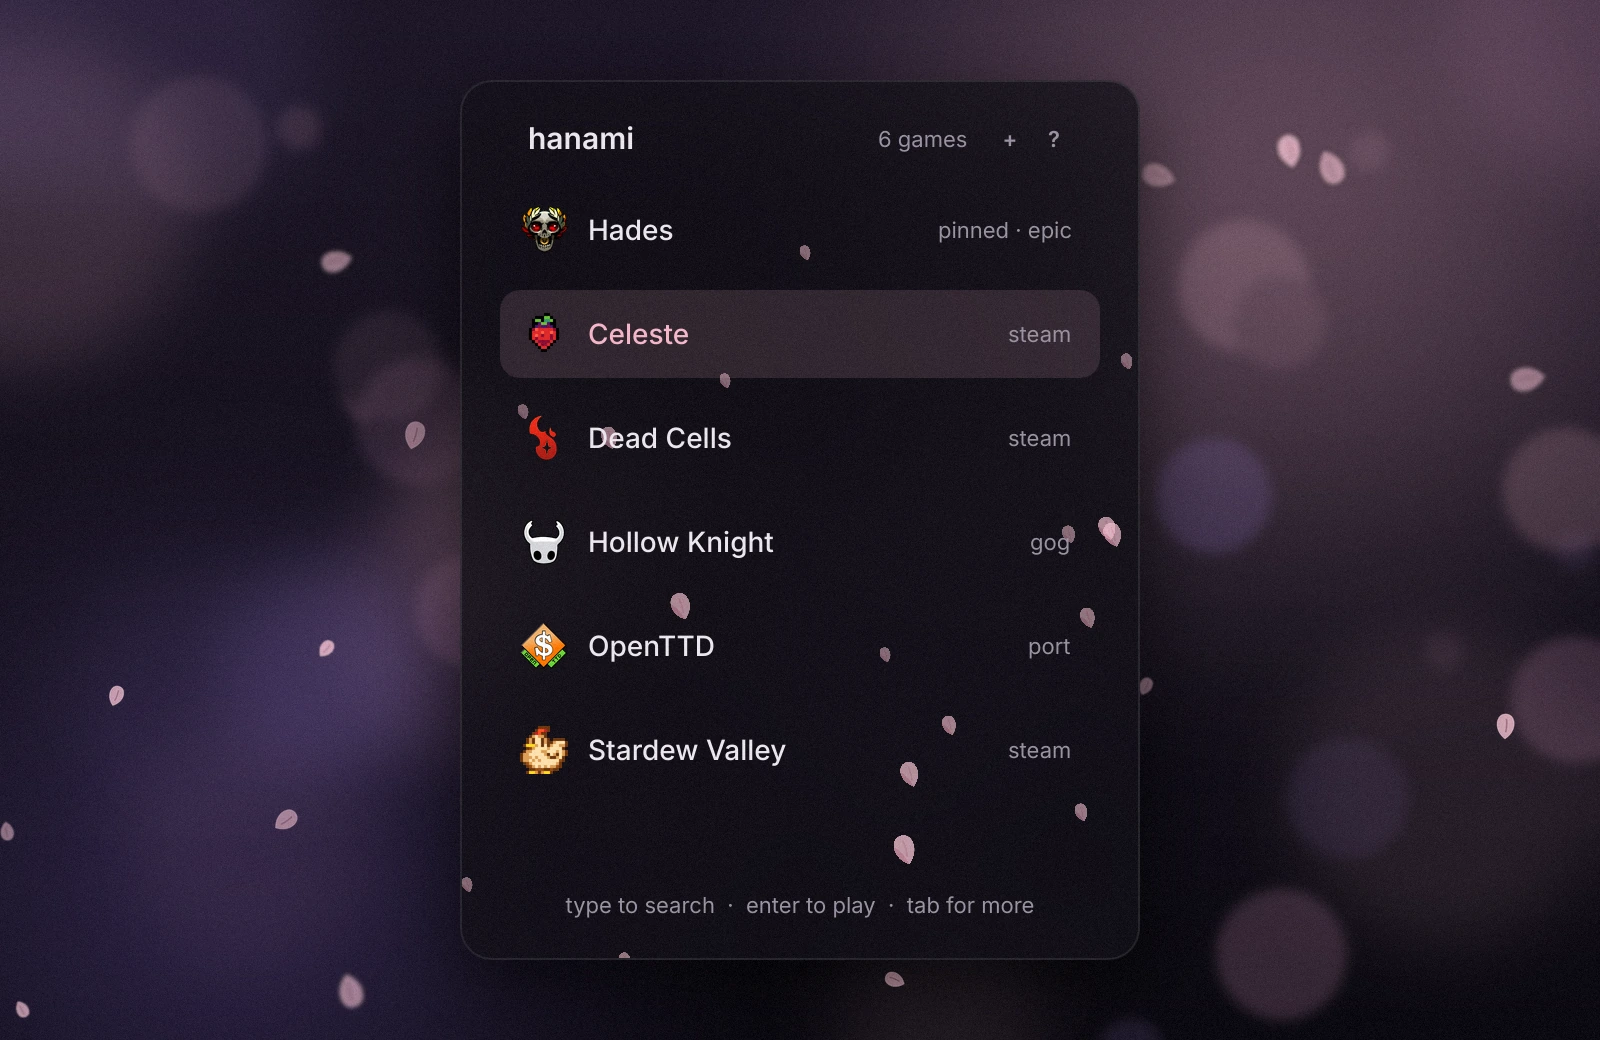
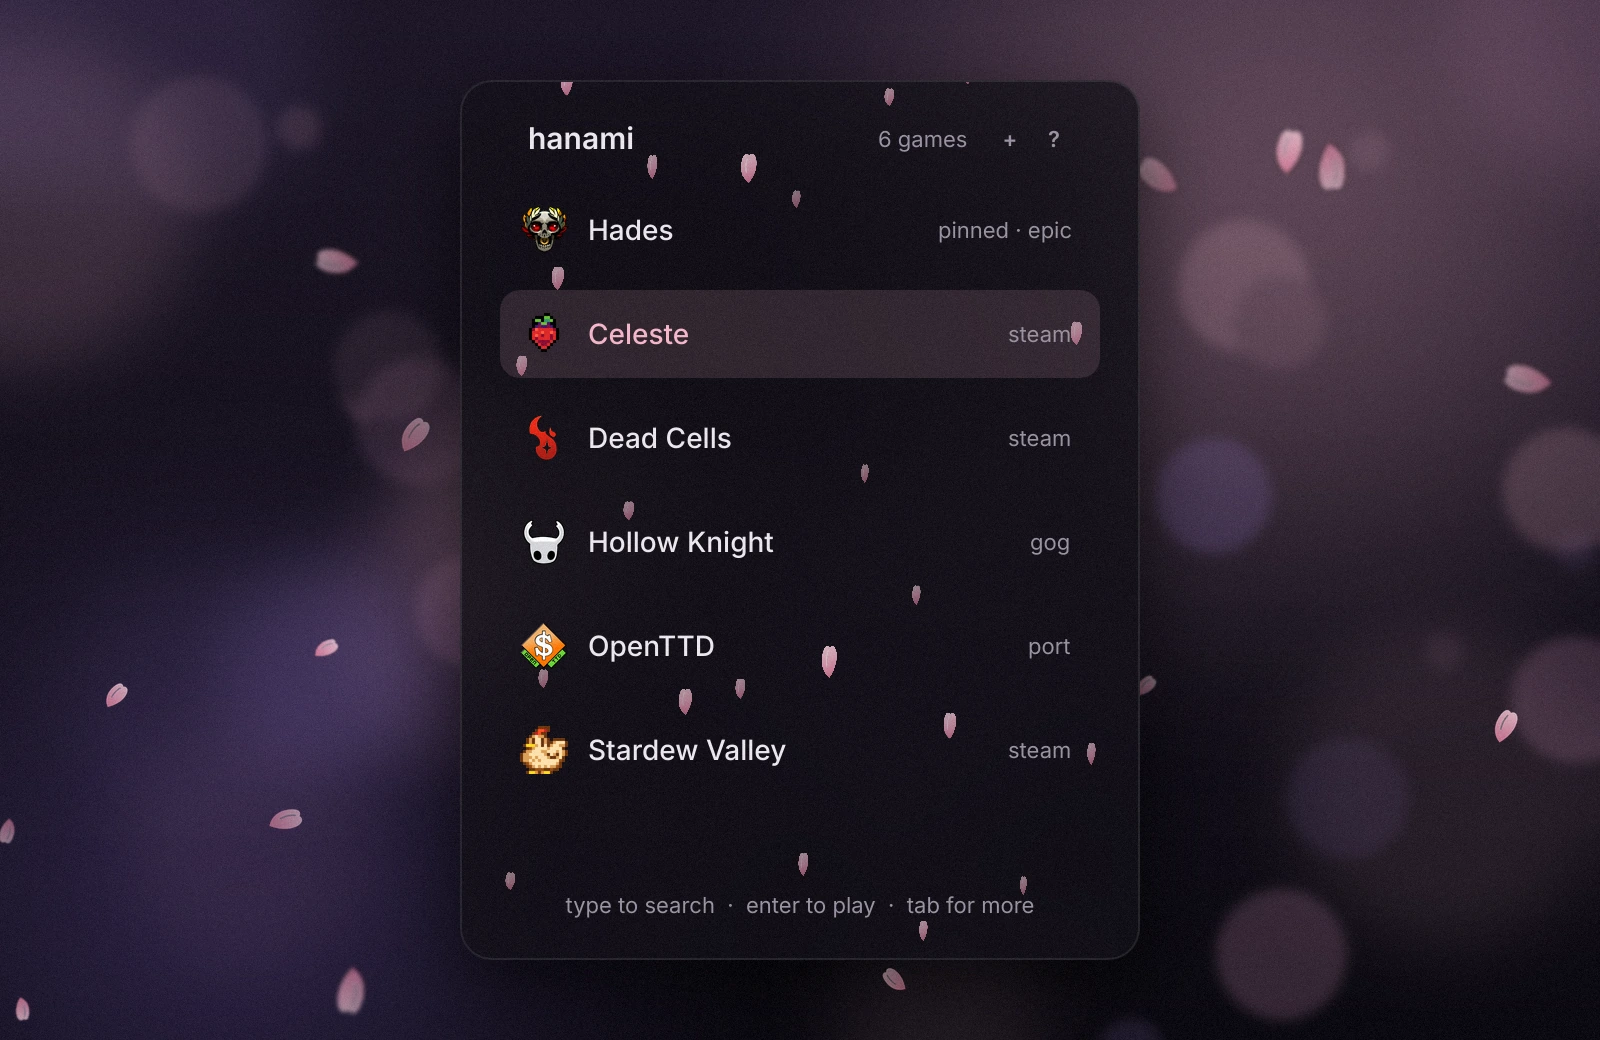
feat(theme): sakura petal redrawn, tumbling, tints keep shading
- Sakura petal redrawn: narrow base, slight bend, a notch too small to
  read as a heart, a soft pink gradient and a gloss.
- Petals turn over as they fall, and their places come from a Halton
  sequence so they're spread across and down the panel, not clumped.
- Tints paint a picture by its brightness, so leaves keep their veins in
  every colour. Leaf and snow sizes in the guide adjusted to match.
- 24 petals by default, 8 to 18 px, small ones faint and slow.
- Two tests no longer share a temp folder (the icon_theme flake).
- README pictures and site petal redrawn.

diff --git a/hanami/src/theme.rs b/hanami/src/theme.rs
@@ -5,7 +5,7 @@
 
 use std::path::Path;
 
-use slint::{Color, ComponentHandle, ModelRc, VecModel};
+use slint::{Color, ComponentHandle, ModelRc, Rgba8Pixel, SharedPixelBuffer, VecModel};
 
 use crate::config::Theme;
 use crate::{Panel, Tokens, petals};
@@ -37,25 +37,50 @@ pub fn apply(panel: &Panel, theme: &Theme, dir: Option<&Path>, scale: f32) -> Re
         spin: theme.spin,
         tints: theme.tints.iter().map(|&c| colour(c)).collect(),
     };
-    panel.set_petals(ModelRc::new(VecModel::from(petals::petals(&motion))));
     panel.set_dots(ModelRc::new(VecModel::from(petals::dots(theme.dots))));
     let px = (PETAL_PX as f32 * scale.max(1.0)) as u32;
-    let own = dir.and_then(petal_file).map(|path| petal(&path, px));
-    let sakura = || slint::Image::from_rgba8(crate::icons::svg(SAKURA, px).expect("the built-in petal draws"));
-    match own {
-        Some(Ok(image)) => {
-            panel.set_petal(image);
-            Ok(())
+    let sakura = || crate::icons::svg(SAKURA, px).expect("the built-in petal draws");
+    let (pixels, problem) = match dir.and_then(petal_file).map(|path| petal(&path, px)) {
+        Some(Ok(pixels)) => (pixels, None),
+        Some(Err(problem)) => (sakura(), Some(problem)),
+        None => (sakura(), None),
+    };
+    let mut petals = petals::petals(&motion);
+    let mut painted: Vec<(Color, slint::Image)> = Vec::new();
+    for petal in &mut petals {
+        if petal.tint.alpha() == 0 {
+            continue;
         }
-        Some(Err(problem)) => {
-            panel.set_petal(sakura());
-            Err(problem)
-        }
-        None => {
-            panel.set_petal(sakura());
-            Ok(())
-        }
+        let image = match painted.iter().find(|(tint, _)| *tint == petal.tint) {
+            Some((_, image)) => image.clone(),
+            None => {
+                let image = slint::Image::from_rgba8(tinted(&pixels, petal.tint));
+                painted.push((petal.tint, image.clone()));
+                image
+            }
+        };
+        petal.image = image;
     }
+    panel.set_petals(ModelRc::new(VecModel::from(petals)));
+    panel.set_petal(slint::Image::from_rgba8(pixels));
+    problem.map_or(Ok(()), Err)
+}
+
+/// The picture painted in `tint`: its brightest part gets the tint as it
+/// is, darker parts (a vein, a shadow) a darker tint, so shading and lines
+/// stay while the colour changes.
+fn tinted(pixels: &SharedPixelBuffer<Rgba8Pixel>, tint: Color) -> SharedPixelBuffer<Rgba8Pixel> {
+    let light = |p: &Rgba8Pixel| p.r as u32 * 299 + p.g as u32 * 587 + p.b as u32 * 114;
+    let brightest = pixels.as_slice().iter().filter(|p| p.a == 255).map(light).max().unwrap_or(0).max(1);
+    let (r, g, b) = (tint.red() as u32, tint.green() as u32, tint.blue() as u32);
+    let mut out = pixels.clone();
+    for p in out.make_mut_slice() {
+        let l = light(p);
+        p.r = (r * l / brightest).min(255) as u8;
+        p.g = (g * l / brightest).min(255) as u8;
+        p.b = (b * l / brightest).min(255) as u8;
+    }
+    out
 }
 
 fn colour(c: crate::config::Colour) -> Color {
@@ -69,14 +94,13 @@ fn petal_file(dir: &Path) -> Option<std::path::PathBuf> {
 }
 
 /// `path` drawn as a petal `px` wide, or why it couldn't be.
-fn petal(path: &Path, px: u32) -> Result<slint::Image, String> {
+fn petal(path: &Path, px: u32) -> Result<SharedPixelBuffer<Rgba8Pixel>, String> {
     let name = path.file_name().and_then(|n| n.to_str()).unwrap_or("petal").to_owned();
     let size = std::fs::metadata(path).map_err(|e| format!("{name}: {e}"))?.len();
     if size > MAX_PETAL_BYTES {
         return Err(format!("{name}: {} KB is too big for a petal (keep it under 512 KB)", size / 1024));
     }
-    let pixels = crate::icons::decode(path, px).ok_or(format!("{name}: not a picture Hanami can draw"))?;
-    Ok(slint::Image::from_rgba8(pixels))
+    crate::icons::decode(path, px).ok_or(format!("{name}: not a picture Hanami can draw"))
 }
 
 #[cfg(test)]
@@ -85,12 +109,15 @@ mod tests {
 
     #[test]
     fn a_petal_file_is_drawn_or_refused() {
-        let dir = std::env::temp_dir().join(format!("hanami-theme-{}", std::process::id()));
+        let dir = std::env::temp_dir().join(format!("hanami-look-{}", std::process::id()));
         std::fs::create_dir_all(&dir).unwrap();
         let path = dir.join("petal.svg");
         std::fs::write(&path, "<svg xmlns='http://www.w3.org/2000/svg' viewBox='0 0 10 10'><circle cx='5' cy='5' r='4' fill='#c40'/></svg>").unwrap();
-        let image = petal(&path, PETAL_PX).unwrap();
-        assert_eq!(image.size().width, PETAL_PX);
+        let pixels = petal(&path, PETAL_PX).unwrap();
+        assert_eq!(pixels.width(), PETAL_PX);
+        let blue = tinted(&pixels, Color::from_rgb_u8(0, 0, 255));
+        let middle = blue.as_slice()[(PETAL_PX * PETAL_PX / 2 + PETAL_PX / 2) as usize];
+        assert_eq!((middle.r, middle.g, middle.b, middle.a), (0, 0, 255, 255), "{middle:?}");
         std::fs::write(&path, "not svg at all").unwrap();
         assert!(petal(&path, PETAL_PX).unwrap_err().contains("not a picture"));
         std::fs::write(&path, vec![b' '; 600 * 1024]).unwrap();
@@ -101,7 +128,7 @@ mod tests {
         image::RgbaImage::from_pixel(8, 8, image::Rgba([255, 0, 0, 255])).save(&png).unwrap();
         std::fs::remove_file(&path).unwrap();
         assert_eq!(petal_file(&dir).unwrap(), png);
-        assert_eq!(petal(&png, PETAL_PX).unwrap().size().width, PETAL_PX);
+        assert_eq!(petal(&png, PETAL_PX).unwrap().width(), PETAL_PX);
         std::fs::remove_dir_all(dir).unwrap();
     }
 }

diff --git a/hanami/src/petals.rs b/hanami/src/petals.rs
@@ -12,14 +12,14 @@ pub struct Motion {
     pub size: f32,
     pub drift: f32,
     pub spin: f32,
-    /// Colours the petals are painted in, taken in turn; empty keeps the
-    /// picture's own colours.
+    /// Colours the petals are painted in (multiplied over the picture, so
+    /// its shading stays), taken in turn; empty keeps the picture's own.
     pub tints: Vec<Color>,
 }
 
 impl Default for Motion {
     fn default() -> Self {
-        Self { count: 18, speed: 1.0, size: 1.0, drift: 1.0, spin: 1.0, tints: Vec::new() }
+        Self { count: 24, speed: 1.0, size: 1.0, drift: 1.0, spin: 1.0, tints: Vec::new() }
     }
 }
 
@@ -33,8 +33,22 @@ fn random() -> impl FnMut() -> f32 {
     }
 }
 
+/// The i-th number of the Halton sequence in `base`, 0 to 1: a sequence
+/// that fills the line evenly instead of bunching like random numbers.
+fn halton(mut i: u32, base: u32) -> f32 {
+    let (mut result, mut f) = (0.0, 1.0 / base as f32);
+    while i > 0 {
+        result += f * (i % base) as f32;
+        i /= base;
+        f /= base as f32;
+    }
+    result
+}
+
 /// The same petals every time, so the panel always looks the same. Small
-/// ones are fainter and slower, as if further away.
+/// ones are fainter and slower, as if further away. Places come from a
+/// Halton sequence, so petals are spread out across and down the panel
+/// rather than landing in clumps.
 pub fn petals(motion: &Motion) -> Vec<Petal> {
     let mut next = random();
     (0..motion.count.min(200))
@@ -44,15 +58,18 @@ pub fn petals(motion: &Motion) -> Vec<Petal> {
             let near = depth * depth;
             let tint = motion.tints.get(i % motion.tints.len().max(1)).copied().unwrap_or_default();
             Petal {
-                x: next(),
+                x: halton(i as u32 + 1, 2) * 0.96 + 0.02,
                 speed: (9.0 + near * 20.0 + next() * 4.0) * motion.speed,
                 sway: (5.0 + next() * 14.0) * motion.drift,
                 freq: 0.4 + next() * 0.6,
                 spin: (next() - 0.5) * 70.0 * motion.spin,
-                size: (7.0 + near * 11.0) * motion.size,
-                alpha: 0.45 + near * 0.4 + next() * 0.1,
+                size: (8.0 + near * 10.0) * motion.size,
+                alpha: 0.5 + near * 0.4 + next() * 0.1,
                 phase: next() * std::f32::consts::TAU,
+                drop: halton(i as u32 + 1, 3),
+                flip: (0.6 + next() * 1.6) * motion.spin,
                 tint,
+                image: Default::default(),
             }
         })
         .collect()
@@ -71,7 +88,29 @@ pub fn dots(count: u32) -> Vec<Petal> {
             size: 2.0 + next() * 2.5,
             alpha: 0.35 + next() * 0.45,
             phase: next() * std::f32::consts::TAU,
+            drop: next(),
+            flip: 0.0,
             tint: Color::default(),
+            image: Default::default(),
         })
         .collect()
+}
+
+#[cfg(test)]
+mod tests {
+    use super::*;
+
+    #[test]
+    fn petals_are_spread_across_and_down_the_panel() {
+        let petals = petals(&Motion::default());
+        for slice in 0..8 {
+            let (lo, hi) = (slice as f32 / 8.0, (slice + 1) as f32 / 8.0);
+            let across = petals.iter().filter(|p| p.x >= lo && p.x < hi).count();
+            let down = petals.iter().filter(|p| p.drop >= lo && p.drop < hi).count();
+            assert!(across >= 2 && down >= 2, "slice {slice}: {across} across, {down} down");
+        }
+        assert_eq!(halton(1, 2), 0.5);
+        assert_eq!(halton(2, 2), 0.25);
+        assert_eq!(halton(3, 2), 0.75);
+    }
 }

diff --git a/docs/screenshot.py b/docs/screenshot.py
@@ -27,8 +27,8 @@ SCENES = {
         glows=[((0.80, 0.16), (244, 182, 200), 0.30, 640), ((0.14, 0.88), (126, 96, 196), 0.24, 580)],
         bokeh=[(244, 182, 200), (214, 150, 190), (160, 130, 220)],
         bokeh_alpha=(0.05, 0.24),
-        petal=(247, 196, 211),
-        vein=(233, 163, 184),
+        petal=(255, 214, 226),
+        vein=(232, 128, 159),
         petal_alpha=(0.45, 0.85),
         shadow=(0, 0, 0),
         shadow_alpha=0.6,
@@ -39,8 +39,8 @@ SCENES = {
         glows=[((0.80, 0.14), (247, 186, 206), 0.60, 640), ((0.14, 0.88), (190, 210, 248), 0.55, 580)],
         bokeh=[(255, 255, 255), (247, 196, 211), (220, 204, 246)],
         bokeh_alpha=(0.20, 0.55),
-        petal=(240, 158, 184),
-        vein=(220, 124, 156),
+        petal=(250, 200, 216),
+        vein=(226, 120, 160),
         petal_alpha=(0.55, 0.95),
         shadow=(70, 30, 55),
         shadow_alpha=0.32,
@@ -56,19 +56,24 @@ def cubic(p0, p1, p2, p3, steps=24):
 
 
 def petal(size, colour, vein, alpha, angle, blur):
-    """assets/petal.svg, drawn `size` pixels wide (the same curves, tilted the same 18 degrees)."""
+    """assets/petal.svg, drawn `size` pixels wide (the same curves)."""
     zoom = 8
-    k = size * zoom / 20
-    outline = [((0, 11), (-6, 6.5), (-8.2, 1), (-7.4, -4.2)), ((-7.4, -4.2), (-6.5, -9), (-3.6, -11), (0, -11)),
-               ((0, -11), (3.6, -11), (6.5, -9), (7.4, -4.2)), ((7.4, -4.2), (8.2, 1), (6, 6.5), (0, 11))]
+    k = size * zoom / 15
+    outline = [((0, 11), (-5.2, 8), (-7.2, 2.5), (-6.2, -3.4)), ((-6.2, -3.4), (-5.5, -7.6), (-4, -10.4), (-2.1, -10.5)),
+               ((-2.1, -10.5), (-1.1, -10.5), (-0.3, -10), (0.2, -9.4)), ((0.2, -9.4), (0.7, -10.1), (1.6, -10.5), (2.5, -10.4)),
+               ((2.5, -10.4), (4.5, -10.2), (6, -7.8), (6, -3.6)), ((6, -3.6), (6, 1.2), (3.8, 6.4), (0, 11))]
     side = int(size * 1.6 * zoom)
     to_px = lambda p: (side / 2 + p[0] * k, side / 2 + p[1] * k)
-    big = Image.new("RGBA", (side, side), colour + (0,))
+    # Pale at the wide end, deeper at the base, like the SVG's gradient.
+    mask = Image.new("L", (side, side), 0)
+    ImageDraw.Draw(mask).polygon([to_px(p) for seg in outline for p in cubic(*seg)], fill=255)
+    pale, deep = (Image.new("RGBA", (side, side), c + (255,)) for c in (colour, vein))
+    big = Image.composite(deep, pale, Image.linear_gradient("L").resize((side, side)))
+    big.putalpha(mask)
     draw = ImageDraw.Draw(big)
-    draw.polygon([to_px(p) for seg in outline for p in cubic(*seg)], fill=colour + (255,))
-    draw.line([to_px(p) for p in cubic((0.5, -6.5), (1.1, -3), (1, 1), (0.3, 5))] + [to_px((0.3, 5))],
-              fill=vein + (200,), width=max(1, int(1.3 * k)))
-    small = big.rotate(angle + 18, resample=Image.BICUBIC).resize((side // zoom, side // zoom), Image.LANCZOS)
+    draw.line([to_px(p) for p in cubic((-1, -7.4), (-2.4, -4.8), (-2.9, -1), (-2.2, 3))] + [to_px((-2.2, 3))],
+              fill=(255, 255, 255, 115), width=max(1, int(1.0 * k)))
+    small = big.rotate(angle, resample=Image.BICUBIC).resize((side // zoom, side // zoom), Image.LANCZOS)
     small.putalpha(small.getchannel("A").point(lambda a: int(a * alpha)))
     return small.filter(ImageFilter.GaussianBlur(blur)) if blur else small
 

diff --git a/hanami/src/config.rs b/hanami/src/config.rs
@@ -65,7 +65,7 @@ panel = "#17141db8"
 text = "#ece6ee"
 dim = "#9b93a3"
 accent = "#f4b6c8"
-petals = 18
+petals = 24
 speed = 1.0
 size = 1.0
 drift = 1.0
@@ -139,7 +139,7 @@ impl Default for Theme {
             text: Colour(0xece6eeff),
             dim: Colour(0x9b93a3ff),
             accent: Colour(0xf4b6c8ff),
-            petals: 18,
+            petals: 24,
             speed: 1.0,
             size: 1.0,
             drift: 1.0,

diff --git a/GUIDE.md b/GUIDE.md
@@ -302,7 +302,7 @@ panel = "#17141db8"   # the panel's colour; the last two digits are how solid
 text = "#ece6ee"      # game names and the title
 dim = "#9b93a3"       # labels and hints
 accent = "#f4b6c8"    # the selected row, the petals' tint in the highlight
-petals = 18           # how many petals fall (0 to 200)
+petals = 24           # how many petals fall (0 to 200)
 speed = 1.0           # how fast they fall; 0.5 is half as fast
 size = 1.0            # how big they are; 1.5 is half as big again
 drift = 1.0           # how far they sway sideways; leaves tumble, snow wobbles
@@ -319,9 +319,9 @@ enough for a look to feel right:
 
 | look | petals | speed | size | drift | spin | tints | dots |
 |---|---|---|---|---|---|---|---|
-| sakura (default) | 18 | 1.0 | 1.0 | 1.0 | 1.0 | none | 0 |
-| autumn leaves | 16 | 0.7 | 2.0 | 1.6 | 1.4 | `["#e0602a", "#c8401c", "#f0a040", "#9a3410"]` | 12 |
-| snow | 18 | 0.6 | 1.5 | 1.3 | 0.3 | `["#ffffff", "#dceeff", "#bfe0ff"]` | 24 |
+| sakura (default) | 24 | 1.0 | 1.0 | 1.0 | 1.0 | none | 0 |
+| autumn leaves | 16 | 0.7 | 1.8 | 1.6 | 1.4 | `["#e0602a", "#c8401c", "#f0a040", "#9a3410"]` | 12 |
+| snow | 18 | 0.6 | 1.3 | 1.3 | 0.3 | `["#ffffff", "#dceeff", "#bfe0ff"]` | 24 |
 
 With `tints` the picture is painted flat in those colours, so its own
 colours and lines don't show; leave `tints` empty for a petal that has a
@@ -345,7 +345,7 @@ else (an emoji picture, say). Rules, which Hanami checks:
 - Under 512 KB; a petal is a few lines, or a png of 64 to 256 pixels.
 - The shape should fill most of the box and be clear at 12 pixels: a leaf,
   a petal, a snowflake, a star. Fine detail disappears at that size; a
-  detailed shape like a leaf wants `size = 2.0` and fewer petals.
+  detailed shape like a leaf wants `size = 1.8` and fewer petals.
 
 A file that doesn't follow this is refused ("Couldn't read petal.svg: ...")
 and the sakura petal stays.
